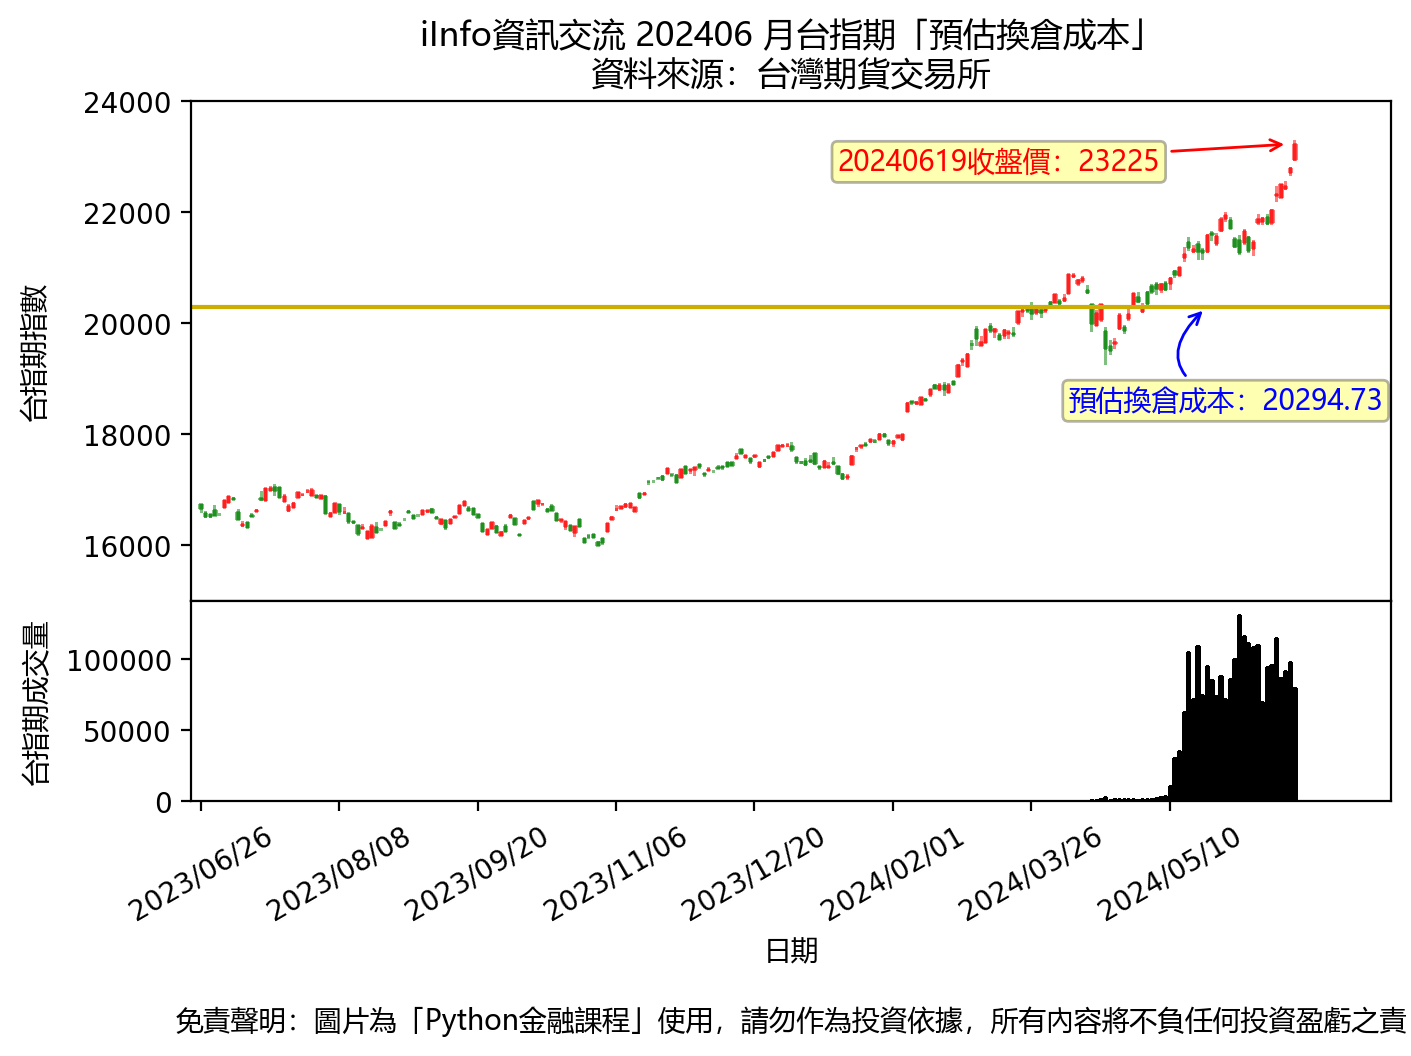
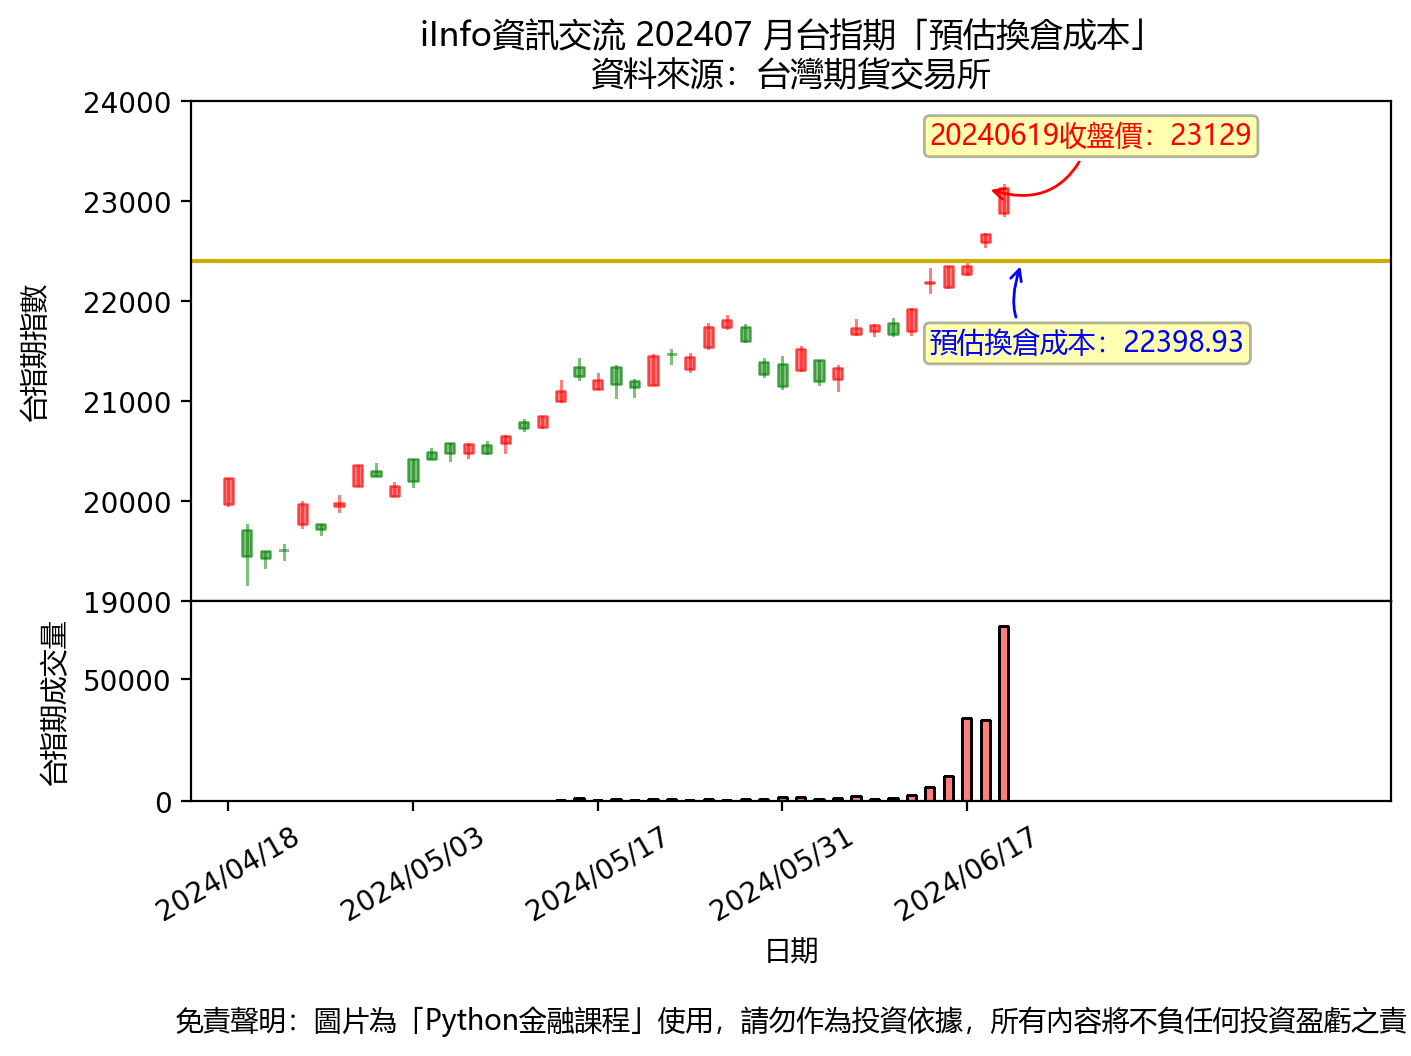
更新時間: Thu Jun 20 11:34:11 CST 2024

diff --git a/README.md b/README.md
@@ -1,3 +1,6 @@
+## 20240620 台指期「預估換倉成本」
+![](txfcost.png)
 
-## 20240620 選擇權 Put/Call Ratios
+## 20240620 台指選擇權「Put/Call Ratios」
 ![](pcratio.png)
+
